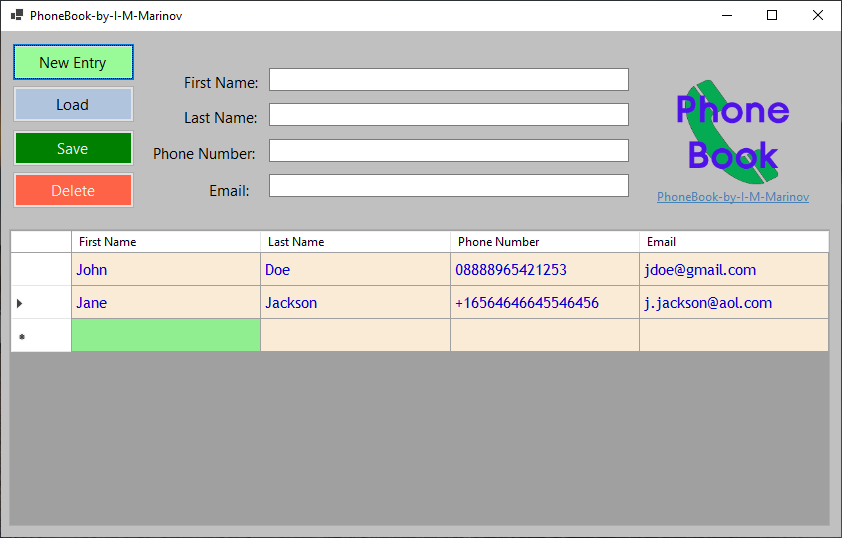
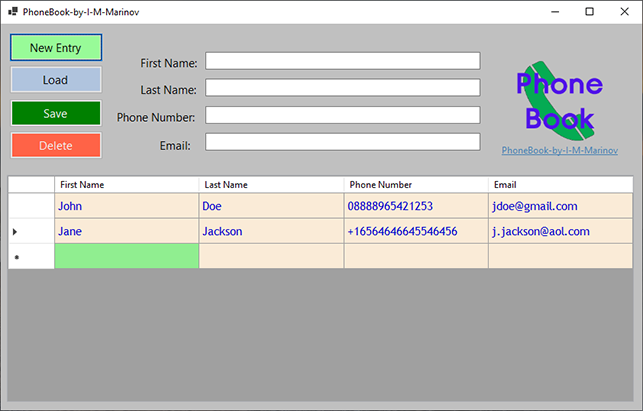
1. Fixed the spacing of each project container.
2. Screenshots for each project are not the same width for uniformity.

diff --git a/responsive.css b/responsive.css
@@ -100,7 +100,6 @@
         flex-direction: column;
         align-items: flex-start;
         align-content: flex-start;
-        flex-wrap: nowrap;
         overflow-y: auto;
         scroll-snap-type: y mandatory;
         height: 40%; 
@@ -112,25 +111,37 @@
         flex-direction: row;
         justify-content: center;
         align-content: flex-start;
+        align-items: flex-start;
         padding-top: 0.5em;
         padding-left: 0.6em;
         width: 100%;
-        height: 30.5em;
+        height: 25em;
     }
 
     .project-picture {
         pointer-events: none;
         margin-right: 0.25em;
-        flex-shrink: 1;
+        flex-shrink: 0;
     }
 
     .project-picture img {
-        max-width: 100%;
+        align-self: flex-start;
         height: auto;
         object-fit: contain;
         scale: 100%;
     }
 
+    #project-picture1{
+        padding-bottom: 8em;
+    }
+    
+    #project-picture2{
+        padding-bottom: 9em;
+    }
+    
+    #project-picture3{
+        padding-bottom: 9em;
+    }
     .project-description {
         width: 60%;
         height: auto;
@@ -302,35 +313,41 @@
         /* flex-wrap: nowrap; */
         overflow-y: auto;
         scroll-snap-type: y mandatory;
-        height: 45%;
+        height: 50%;
         z-index: 299;
     }
 
     .project-container {
         display: flex;
+        flex-direction: row;
         justify-content: center;
-        padding-top: 0.2em;
-        padding-bottom: 0.2em;
-        padding-left: 0.6em;
+        align-content: flex-start;
+        align-items: flex-start;
+        padding-top: 0.3em;
+        padding-left: 0.3em;
         width: 100%;
         height: 20em;
     }
 
     .project-picture {
-        margin-right: 0.em;
-        flex-shrink: 1;
-        object-fit: contain;
+        pointer-events: none;
+        margin-right: 0.25em;
+        flex-shrink: 0;
     }
 
     .project-picture img {
-        width: 30em;
-        height: 20em;
-        pointer-events: none;
-        max-width: 100%;
+        align-self: flex-start;
         height: auto;
-        object-fit: contain;    
-        scale: 75%;
+        object-fit: contain;
+        scale: 100%;
     }
+
+    #project-picture1,
+    #project-picture2,
+    #project-picture3{
+        padding-bottom: 0em;
+    }
+    
 
     .project-description {
         width: 60%;
@@ -510,30 +527,35 @@
 
     .project-container {
         display: flex;
+        flex-direction: row;
         justify-content: center;
-        padding-top: 0.2em;
-        padding-bottom: 0.2em;
-        padding-left: 0.6em;
+        align-content: flex-start;
+        align-items: flex-start;
+        padding-top: 0.3em;
+        padding-left: 0.3em;
         width: 100%;
-        height: 28.5em;
+        height: 20em;
     }
 
     .project-picture {
-        margin-right: 0.em;
-        flex-shrink: 1;
-        object-fit: contain;
+        pointer-events: none;
+        margin-right: 0.25em;
+        flex-shrink: 0;
     }
 
     .project-picture img {
-        width: 30em;
-        height: 20em;
-        pointer-events: none;
-        max-width: 100%;
+        align-self: flex-start;
         height: auto;
-        object-fit: contain;    
-        scale: 75%;
+        object-fit: contain;
+        scale: 100%;
     }
 
+    #project-picture1,
+    #project-picture2,
+    #project-picture3{
+        padding-bottom: 0em;
+    }
+    
     .project-description {
         width: 60%;
         height: auto;
@@ -712,29 +734,34 @@
 
     .project-container {
         display: flex;
+        flex-direction: row;
         justify-content: center;
-        height: 28.5em;
-        padding-top: 0.5em;
-        padding-left: 0.6em;
-        max-width: 100%;
+        align-content: flex-start;
+        align-items: flex-start;
+        padding-top: 0.3em;
+        padding-left: 0.3em;
+        width: 100%;
+        height: 20em;
     }
 
     .project-picture {
+        pointer-events: none;
         margin-right: 0.25em;
-        flex-shrink: 1;
-        object-fit: contain;
+        flex-shrink: 0;
     }
 
     .project-picture img {
-        width: 30em;
-        height: 20em;
-        pointer-events: none;
-        max-width: 100%;
+        align-self: flex-start;
         height: auto;
         object-fit: contain;
-        scale: 80%;
+        scale: 100%;
     }
 
+    #project-picture1,
+    #project-picture2,
+    #project-picture3{
+        padding-bottom: 0em;
+    }
     .project-description {
         width: 60%;
         height: auto;
@@ -883,49 +910,49 @@
         flex-direction: column;
         align-items: flex-start;
         align-content: flex-start;
-        flex-wrap: nowrap;
+        justify-content: flex-start;
         overflow-y: auto;
         scroll-snap-type: y mandatory;
-        height: 45%; 
+        height: 40%; 
         z-index: 299;
     }
 
     .project-container {
         display: flex;
+        flex-direction: row;
         justify-content: center;
-        padding-top: 0.5em;
-        padding-left: 0.6em;
-        height: 25.5em;
+        align-content: flex-start;
+        align-items: flex-start;
+        padding-top: 0.3em;
+        padding-left: 0.3em;
+        width: 100%;
+        height: 22em;
     }
 
     .project-picture {
+        pointer-events: none;
         margin-right: 0.25em;
-        flex-shrink: 1;
-        object-fit: contain;
+        flex-shrink: 0;
+        width: 40%;
     }
 
     .project-picture img {
-        pointer-events: none;
-        max-width: 100%;
+        align-self: flex-start;
         height: auto;
         object-fit: contain;
-        scale: 75%;
+        scale: 85%;
     }
 
-    .project-picture.special img {
-        width: 100%;
-        height: auto;
-        object-fit: contain;
-        scale: 75%;
+    #project-picture1,
+    #project-picture2,
+    #project-picture3{
+        padding-bottom: 0em;
     }
 
     .project-description {
         margin-right: 0.25em;
         align-self: center;
-    }
-
-    .project-description.special {
-        align-self: center;
+        width: 80%;
     }
 
     .project-description h2 {
@@ -1110,29 +1137,35 @@
         align-content: flex-start;
         align-items: flex-start;
         width: 100%;
-        height: 23.5em;
+        height: 28em;
         flex-shrink: 0;
-        flex-direction: column;
 
+    }
+
+    .project-picture {
+        display: flex;
+        justify-content: flex-start;
+        flex-shrink: 0;
+        object-fit: contain;
+        width: 85%;
     }
 
     .project-picture img { 
         width: 100%;
         height: auto;
         order: 1;
-        object-fit: contain;
     }
 
-    .project-picture {
-        display: flex;
-        flex-shrink: 0;
-        object-fit: contain;
+    #project-picture1,
+    #project-picture2,
+    #project-picture3{
+        padding-bottom: 1em;
     }
 
     .project-description {
         padding: 0;
         margin-top: -2em;
-        width: 85%;
+        width: 95%;
         order: 2;
     }
 
@@ -1611,7 +1644,7 @@
         align-content: space-between;
         align-items: center;
         width: 100%;
-        height: 18.5em;
+        height: 19em;
         flex-shrink: 0;
         flex-grow: 1;
 

diff --git a/projects.html b/projects.html
@@ -150,7 +150,7 @@
                 <div class="project-container">
 
                     <div class="project-picture">
-                        <img src="./images/projects-screenshots/Screenshot 1.png" alt="">
+                        <img id="project-picture1" src="./images/projects-screenshots/Screenshot 1.png" alt="">
                     </div>
         
                     <div class="project-description">
@@ -171,7 +171,7 @@
                 <div class="project-container">
         
                     <div class="project-picture">
-                        <img src="./images/projects-screenshots/Phone-book-screenshot.png" alt="">
+                        <img id="project-picture2" src="./images/projects-screenshots/Phone-book-screenshot.png" alt="">
                     </div>
         
                     <div class="project-description">
@@ -192,7 +192,7 @@
                 <div class="project-container">
         
                     <div class="project-picture">
-                        <img src="./images/projects-screenshots/Resume-CV-Screenshot.png" alt="">
+                        <img id="project-picture3" src="./images/projects-screenshots/Resume-CV-Screenshot.png" alt="">
                     </div>
         
                     <div class="project-description">

diff --git a/style/projects.css b/style/projects.css
@@ -23,6 +23,7 @@
     height: 45%; 
     width: 100%;
     scroll-snap-type: y mandatory;
+    scroll-snap-align: start;
     -webkit-overflow-scrolling: touch; 
 }
 
@@ -30,7 +31,7 @@
     display: flex;
     flex-direction: column;
     justify-content: center;
-    align-items: center;
+    align-items: flex-start;
     width: 100%;
     height: 24em;
     scroll-snap-align: start;
@@ -38,20 +39,27 @@
 }
 
 .project-picture {
+    display: flex;
+    justify-content: flex-start;
+    align-items: center;
     height: auto; 
     object-fit: contain;
     align-self: center;
     pointer-events: none;
     scale: 70%;
+    flex-shrink: 0;
 }
 
 .project-picture img {
-    width: 30em;
+    width: 100%;
     height: auto;
-    align-self: center;
+    align-self: flex-start;
 }
 
+
 .project-description {
+    display: flex;
+    flex-direction: column;
     margin-top: 10px;
     border-radius: 10px;
     padding: 1em;
